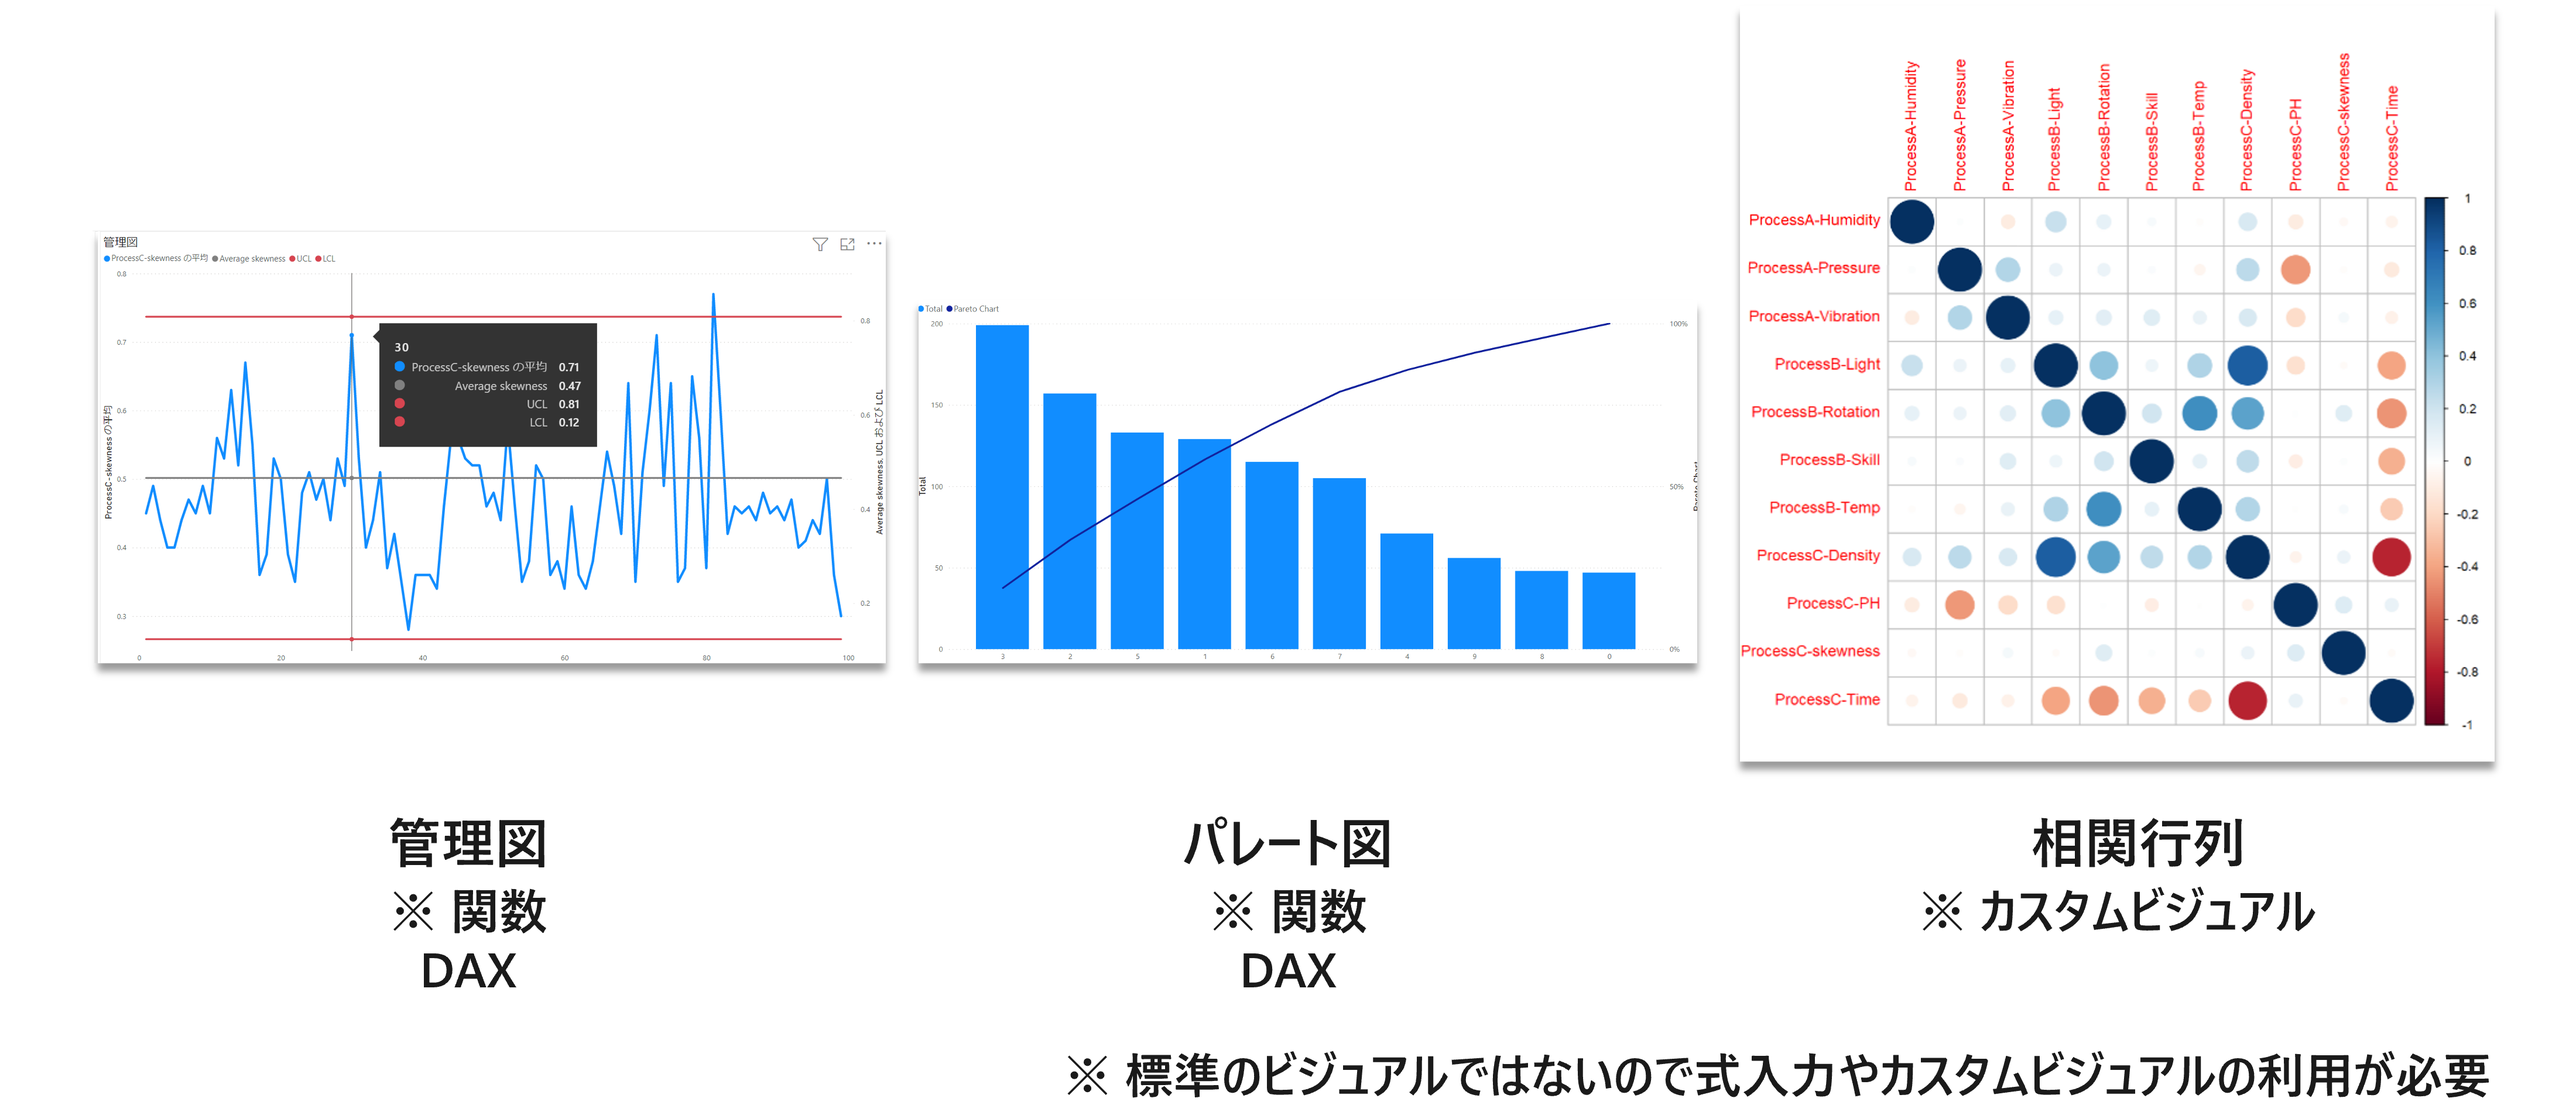
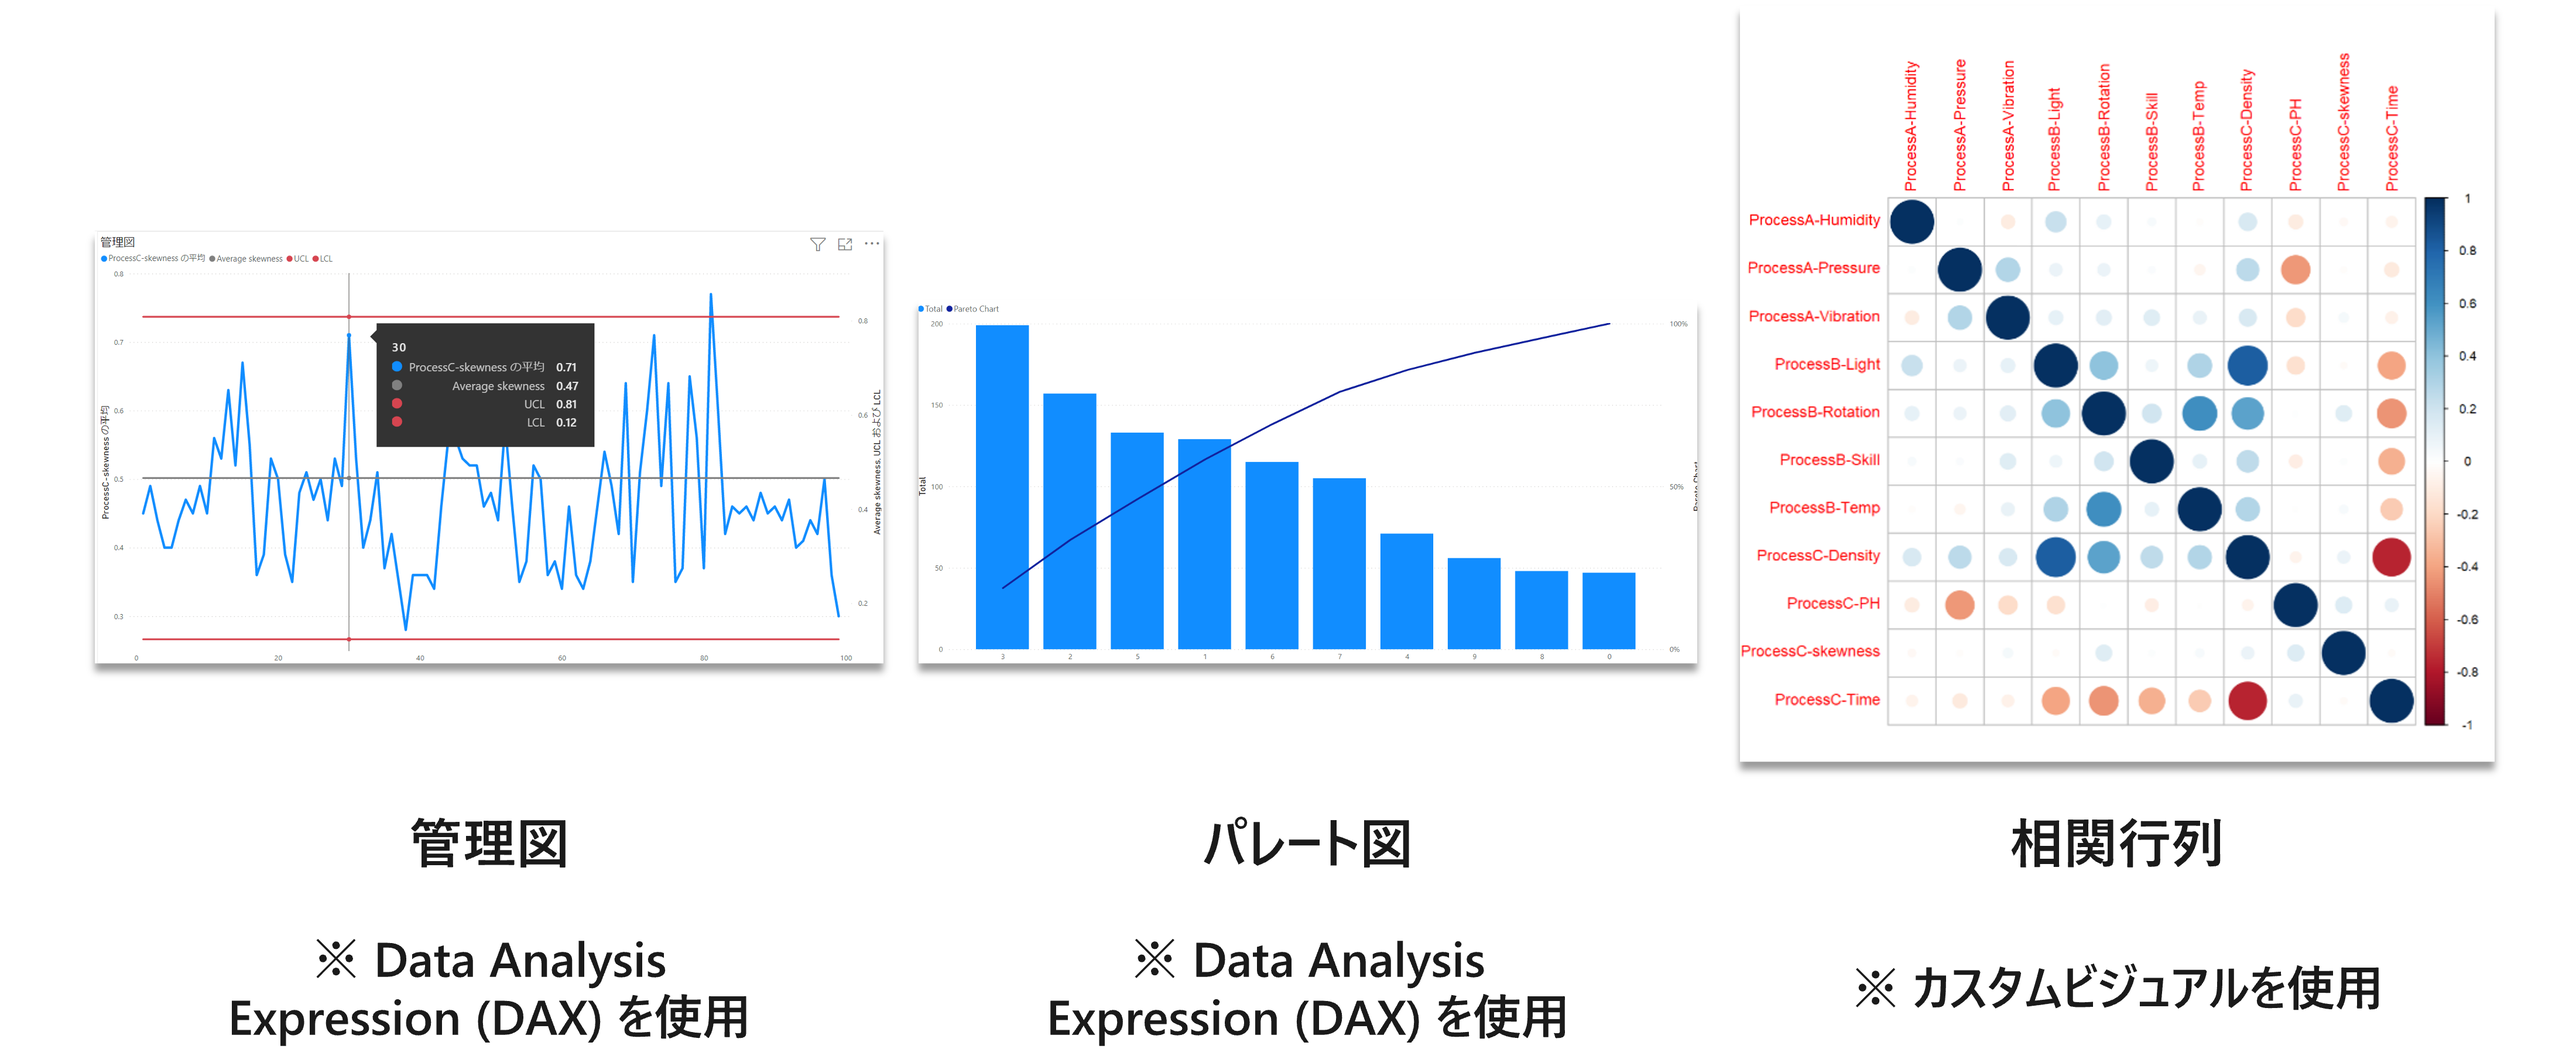
asof 29th March 2023

diff --git a/website/sidebars.js b/website/sidebars.js
@@ -30,8 +30,8 @@ const sidebars = {
       items: [
         "manufacturing/quality-control/qc-overview",
         "manufacturing/quality-control/qc-diagnostic",
-        "manufacturing/quality-control/qc-demonstration",
         "manufacturing/quality-control/qc-azure",
+        "manufacturing/quality-control/qc-demonstration",
       ],
       collapsed: false,
     },

diff --git a/website/docs/manufacturing/quality-control/qc-azure.md b/website/docs/manufacturing/quality-control/qc-azure.md
@@ -3,24 +3,32 @@ id: qc-azure
 title: Azure による実装
 ---
 
-## 品質管理アーキテクチャ例
+## 品質管理アーキテクチャ
+品質管理を Azure 行うためのアーキテクチャ例を紹介します。
 <img src={require('./images/qc-azure-architecture.png').default} width="1000" /><br />
 
 ### 可視化
+データの可視化は **Power BI** を用います。デフォルトに準備されているビジュアルでヒストグラムや散布図を作成することができます。
 <img src={require('./images/qc-azure-architecture-powerbi.png').default} width="600" /><br />
 
+<br />
+
+一方で、管理図やパレート図はデフォルトで準備されているビジュアルでは作成できませんが、カスタムビジュアルや Data Analysis Expression (DAX) を用いて作成することができます。
 <img src={require('./images/qc-azure-architecture-powerbi-custom.png').default} width="600" /><br />
 
+<br />
+
+高度な分析手法も利用できます。Quick insight で自動的にデータの特徴を分析します。Key Influencer では統計的な手法を用いてある指標に相関のある変数を出力することができます。
 <img src={require('./images/qc-azure-architecture-powerbi-ai.png').default} width="600" /><br />
 
 <br/>
 
 ### データ分析、AI・機械学習
-
+**Azure Machine Learning** を用いて機械学習のライフサイクルを回して行きます。AutoML や Designer を用いて迅速にモデルを構築したり、モデルの説明可能性の機能を用いて透明性を高めることができます。
 <img src={require('./images/qc-azure-architecture-azureml.png').default} width="600" /><br />
 
 <br/>
 
 ### データウェアハウス
-
+**Azure Synapse Analytics** は大規模データのデータ前処理、蓄積、分析を行うためのサービスです。パイプラインやデータフローを用いて、製造工程やオンプレミス & クラウド上の各業務システムからデータを抽出します。
 <img src={require('./images/qc-azure-architecture-synapse.png').default} width="600" /><br />
